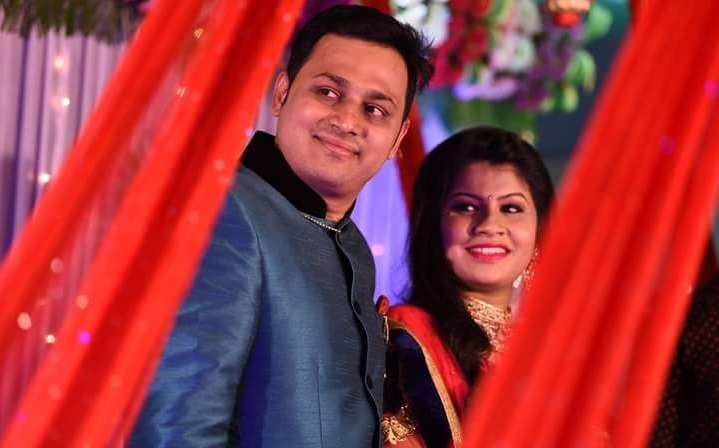
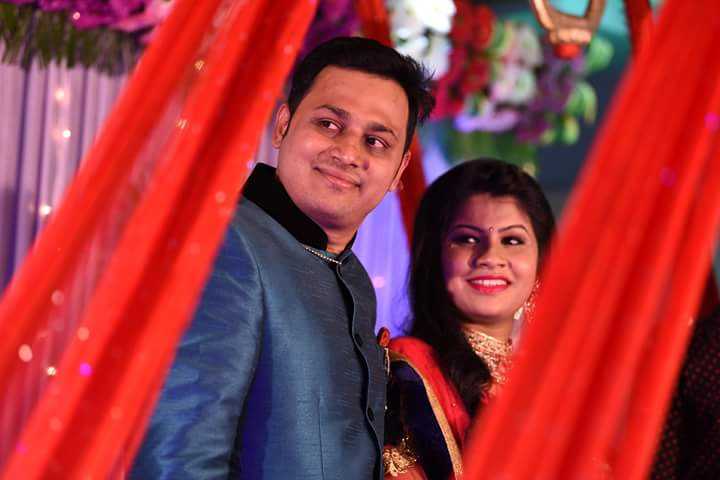
Our moment carousel changes

diff --git a/index.html b/index.html
@@ -87,30 +87,30 @@
         <div id="myCarousel" class="carousel slide" data-ride="carousel" data-interval="500">
 
             <!-- Wrapper for slides -->
-            <div class="carousel-inner" role="listbox">
+            <div class="carousel-inner" role="listbox" style="margin-left:15%">
                 <div class="item active">
-                    <img src="images/1.jpg" alt="img" height="50%" width="100%">
+                    <img src="images/1.jpg" alt="img" height="70%" width="70%">
                 </div>
                 <div class="item">
-                    <img src="images/2.jpg" alt="img" height="50%" width="100%">
+                    <img src="images/2.jpg" alt="img" height="70%" width="70%">
                 </div>                
                 <!-- <div class="item">
-                    <img src="images/3.jpg" alt="img" height="50%" width="100%">
+                    <img src="images/3.jpg" alt="img" height="70%" width="70%">
                 </div>                 -->
                 <div class="item">
-                    <img src="images/4.jpg" alt="img" height="50%" width="100%">
+                    <img src="images/4.jpg" alt="img" height="70%" width="70%">
                 </div>                
                 <div class="item">
-                    <img src="images/5.jpg" alt="img" height="50%" width="100%">
+                    <img src="images/5.jpg" alt="img" height="70%" width="70%">
                 </div>                
                 <!-- <div class="item">
-                    <img src="images/6.jpg" alt="img" height="50%" width="100%">
+                    <img src="images/6.jpg" alt="img" height="70%" width="70%">
                 </div>                 -->
                 <div class="item">
-                    <img src="images/7.jpg" alt="img" height="50%" width="100%">
+                    <img src="images/7.jpg" alt="img" height="70%" width="70%">
                 </div>                
                 <div class="item">
-                    <img src="images/8.jpeg" alt="img" height="50%" width="100%">
+                    <img src="images/8.jpeg" alt="img" height="70%" width="70%">
                 </div>
             </div>
         </div>

diff --git a/style.css b/style.css
@@ -216,7 +216,7 @@
 }
 @media only screen and (max-width: 768px) and (orientation: landscape ){
 	#crewCarousel .carousel-inner {
-		height: 60%;
+		height: 70%;
 	}
 }
 @media only screen and (max-width: 768px) and (orientation: portrait ){
